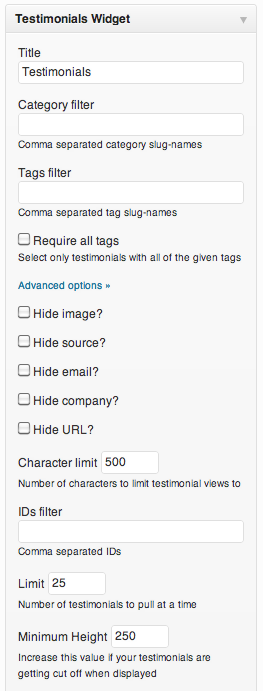
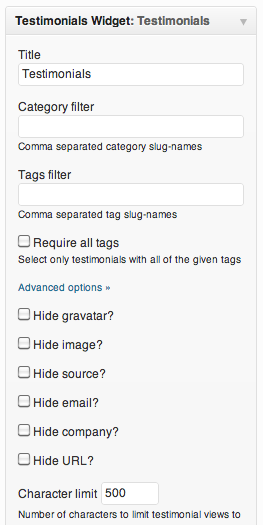
* Add `hide_gravatar` option * Add apply_filters( 'testimonials_widget_data', $testimonial_data ) to process data before display processing * Add right margin to gravatar image * Added empty testimonial data field `testimonial_extra` for customization in testimonials * Allow widget and shortcode sor
git-svn-id: http://plugins.svn.wordpress.org/testimonials-widget/trunk@605160 b8457f37-d9ea-0310-8a92-e5e31aec5664

diff --git a/testimonials-widget.css b/testimonials-widget.css
@@ -9,8 +9,8 @@
 }
 
 .testimonialswidget_paging {
-	font-weight: bold;
 	clear: both;
+	font-weight: bold;
 	height: 1.4em;
 }
 
@@ -18,8 +18,8 @@
 	clear: left;
 	display: none;
 	left: 0;
-	margin: 0;
 	margin-bottom: 1.4em;
+	margin: 0;
 	position: absolute; 
 	top: 0;
 	width: 100%;
@@ -28,6 +28,7 @@
 .testimonialswidget_testimonial .testimonialswidget_image {
 	float: left;
 	margin-bottom: 1.4em;
+	margin-right: .2em;
 }
 
 .widget .testimonialswidget_testimonial .testimonialswidget_image {
@@ -73,6 +74,11 @@
 .testimonialswidget_testimonial .testimonialswidget_url {
 	/* testimonial company and url informaiton */
 }
+
+.testimonialswidget_testimonial .testimonialswidget_extra {
+	/* testimonial source */
+}
+
 
 .testimonialswidget_testimonial_list { 
 	display: block;

diff --git a/lib/testimonials-widget-widget.php b/lib/testimonials-widget-widget.php
@@ -6,11 +6,13 @@ class Testimonials_Widget_Widget extends WP_Widget {
 			'char_limit'		=> 500,
 			'hide_company'		=> '',
 			'hide_email'		=> '',
+			'hide_gravatar'		=> '',
 			'hide_image'		=> '',
 			'hide_source'		=> '',
 			'hide_url'			=> '',
 			'ids'				=> '',
 			'limit'				=> 25,
+			'meta_key'			=> '',
 			'min_height'		=> '250',
 			'order'				=> 'DESC',
 			'orderby'			=> 'ID',
@@ -78,11 +80,13 @@ class Testimonials_Widget_Widget extends WP_Widget {
 		$instance['char_limit']			= ( is_numeric( $new_instance['char_limit'] ) && 0 < $new_instance['char_limit'] ) ? intval( $new_instance['char_limit'] ) : $this->defaults['char_limit'];
 		$instance['hide_company']		= ( 'true' == $new_instance['hide_company'] ) ? 'true' : $this->defaults['hide_company'];
 		$instance['hide_email']			= ( 'true' == $new_instance['hide_email'] ) ? 'true' : $this->defaults['hide_email'];
+		$instance['hide_gravatar']		= ( 'true' == $new_instance['hide_gravatar'] ) ? 'true' : $this->defaults['hide_gravatar'];
 		$instance['hide_image']			= ( 'true' == $new_instance['hide_image'] ) ? 'true' : $this->defaults['hide_image'];
 		$instance['hide_source']		= ( 'true' == $new_instance['hide_source'] ) ? 'true' : $this->defaults['hide_source'];
 		$instance['hide_url']			= ( 'true' == $new_instance['hide_url'] ) ? 'true' : $this->defaults['hide_url'];
 		$instance['ids']				= ( preg_match( '#^\d+(,\d+)?$#', $new_instance['ids'] ) ) ? $new_instance['ids'] : $this->defaults['ids'];
 		$instance['limit']				= ( is_numeric( $new_instance['limit'] ) && 0 < $new_instance['limit'] ) ? intval( $new_instance['limit'] ) : $this->defaults['limit'];;
+		$instance['meta_key']			= ( preg_match( '#^[\w-]+$#', $new_instance['meta_key'] ) ) ? $new_instance['meta_key'] : $this->defaults['meta_key'];
 		$instance['min_height']				= ( is_numeric( $new_instance['min_height'] ) && 0 < $new_instance['min_height'] ) ? intval( $new_instance['min_height'] ) : $this->defaults['min_height'];;
 		$instance['order']				= ( preg_match( '#^desc|asc$#i', $new_instance['order'] ) ) ? $new_instance['order'] : $this->defaults['order'];
 		$instance['orderby']			= ( preg_match( '#^\w+$#', $new_instance['orderby'] ) ) ? $new_instance['orderby'] : $this->defaults['orderby'];
@@ -111,6 +115,8 @@ class Testimonials_Widget_Widget extends WP_Widget {
 
 		echo '<div id="'.$this->get_field_id( 'adv_opts' ).'" style="display:none">';
 
+		echo '<p><input type="checkbox" id="'.$this->get_field_id( 'hide_gravatar' ).'" name="'.$this->get_field_name( 'hide_gravatar' ).'" value="true"'.checked( $instance['hide_gravatar'], 'true', false ).' /> <label for="'.$this->get_field_id( 'hide_gravatar' ).'">'.__( 'Hide gravatar?', 'testimonials-widget' ).'</label></p>';
+
 		echo '<p><input type="checkbox" id="'.$this->get_field_id( 'hide_image' ).'" name="'.$this->get_field_name( 'hide_image' ).'" value="true"'.checked( $instance['hide_image'], 'true', false ).' /> <label for="'.$this->get_field_id( 'hide_image' ).'">'.__( 'Hide image?', 'testimonials-widget' ).'</label></p>';
 
 		echo '<p><input type="checkbox" id="'.$this->get_field_id( 'hide_source' ).'" name="'.$this->get_field_name( 'hide_source' ).'" value="true"'.checked( $instance['hide_source'], 'true', false ).' /> <label for="'.$this->get_field_id( 'hide_source' ).'">'.__( 'Hide source?', 'testimonials-widget' ).'</label></p>';
@@ -130,6 +136,8 @@ class Testimonials_Widget_Widget extends WP_Widget {
 		echo '<p><label for="'.$this->get_field_id( 'min_height' ).'">'.__('Minimum Height', 'testimonials-widget').' </label><input size="4" type="text" id="'.$this->get_field_id( 'min_height' ).'" name="'.$this->get_field_name( 'min_height' ).'" value="'.htmlspecialchars($instance['min_height'], ENT_QUOTES).'" /><br/><span class="setting-description"><small>'.__('Increase this value if your testimonials are getting cut off when displayed', 'testimonials-widget').'</small></span></p>';
 
 		echo '<p><label for="'.$this->get_field_id( 'orderby' ).'">'.__( 'ORDER BY', 'testimonials-widget' ).' </label><input class="widefat" type="text" id="'.$this->get_field_id( 'orderby' ).'" name="'.$this->get_field_name( 'orderby' ).'" value="'.htmlspecialchars($instance['orderby'], ENT_QUOTES).'" /><br/><span class="setting-description"><small>'.__( 'Used when Random order is disabled', 'testimonials-widget' ).'</small></span></p>';
+
+		echo '<p><label for="'.$this->get_field_id( 'meta_key' ).'">'.__( 'Sort by meta key', 'testimonials-widget' ).' </label><input class="widefat" type="text" id="'.$this->get_field_id( 'meta_key' ).'" name="'.$this->get_field_name( 'meta_key' ).'" value="'.htmlspecialchars($instance['meta_key'], ENT_QUOTES).'" /><br/><span class="setting-description"><small>'.__( 'Used when Random order is disabled and sorting by a testimonials meta key is needed', 'testimonials-widget' ).'</small></span></p>';
 
 		echo '<p><label for="'.$this->get_field_id( 'order' ).'">'.__( 'ORDER BY Order', 'testimonials-widget' ).' </label><input class="widefat" type="text" id="'.$this->get_field_id( 'order' ).'" name="'.$this->get_field_name( 'order' ).'" value="'.htmlspecialchars($instance['order'], ENT_QUOTES).'" /><br/><span class="setting-description"><small>'.__( 'DESC or ASC', 'testimonials-widget' ).'</small></span></p>';
 

diff --git a/testimonials-widget.php b/testimonials-widget.php
@@ -3,7 +3,7 @@
 	Plugin Name: Testimonials Widget
 	Plugin URI: http://wordpress.org/extend/plugins/testimonials-widget/
 	Description: Testimonials Widget plugin allows you to display rotating content, portfolio, quotes, showcase, or other text with images on your WordPress blog.
-	Version: 2.1.1
+	Version: 2.1.2
 	Author: Michael Cannon
 	Author URI: http://typo3vagabond.com/about-typo3-vagabond/hire-michael/
 	License: GPLv2 or later
@@ -162,7 +162,7 @@ class Testimonials_Widget {
 		global $user_level, $user_ID;
 
 		// author's and below
-		if( $query->is_admin && $query->is_main_query && $query->is_post_type_archive( self::pt ) && $user_level < 3 )
+		if( $query->is_admin && $query->is_main_query && $query->is_post_type_archive( Testimonials_Widget::pt ) && $user_level < 3 )
 			$query->set( 'post_author', $user_ID );
 
 		return $query;
@@ -372,8 +372,6 @@ EOF;
 </script>
 EOF;
 				self::$scripts[]	= $javascript;
-				// BUGFIX http://wordpress.org/support/topic/plugin-testimonials-widget-warning-call_user_func_array?replies=4#post-3193346
-				// add_action( 'wp_footer', 'Testimonials_Widget::get_testimonials_scripts', 20 );
 				add_action( 'wp_footer', array( &$this, 'get_testimonials_scripts' ), 20 );
 			}
 
@@ -471,6 +469,14 @@ EOF;
 				$cite			= '<cite>' . $cite . '</cite>';
 
 			$html				.= $cite;
+
+			$extra				= $testimonial['testimonial_extra'];
+			if ( ! empty( $extra ) ) {
+				$html			.= '<div class="testimonialswidget_extra';
+				$html			.= $extra;
+				$html			.= '</div>';
+			}
+
 			$html				.= '</div>';
 		}
 
@@ -598,12 +604,15 @@ EOF;
 		$category				= ( preg_match( '#^[\w-]+(,[\w-]+)?$#', $atts['category'] ) ) ? $atts['category'] : false;
 		$ids					= ( preg_match( '#^\d+(,\d+)?$#', $atts['ids'] ) ) ? $atts['ids'] : false;
 		$limit					= ( is_numeric( $atts['limit'] ) && 0 < $atts['limit'] ) ? intval( $atts['limit'] ) : 25;
+		$meta_key				= ( preg_match( '#^[\w-]+$#', $atts['meta_key'] ) ) ? $atts['meta_key'] : false;
 		$order					= ( preg_match( '#^desc|asc$#i', $atts['order'] ) ) ? $atts['order'] : 'DESC';
 		$orderby				= ( preg_match( '#^\w+$#', $atts['orderby'] ) ) ? $atts['orderby'] : 'ID';
 		$paging					= ( 'true' == $atts['paging'] ) ? true : false;
 		$random					= ( 'true' == $atts['random'] ) ? true : false;
 		$tags					= ( preg_match( '#^[\w-]+(,[\w-]+)?$#', $atts['tags'] ) ) ? $atts['tags'] : false;
 		$tags_all				= ( 'true' == $atts['tags_all'] ) ? true : false;
+
+		$hide_gravatar			= ( 'true' == $atts['hide_gravatar'] ) ? true : false;
 
 		if ( $random ) {
 			$orderby			= 'rand';
@@ -613,12 +622,17 @@ EOF;
 		$args					= array(
 			'orderby'			=> $orderby,
 			'post_status'		=> 'publish',
-			'post_type'			=> self::pt,
+			'post_type'			=> Testimonials_Widget::pt,
 			'posts_per_page'	=> $limit,
 		);
 
 		if ( $paging && ! empty( $_REQUEST[ self::page_key ] ) ) {
 			$args['paged']		= intval( $_REQUEST[ self::page_key ] );
+		}
+
+		if ( ! $random && $meta_key ) {
+			$args['meta_key']	= $meta_key;
+			$args['orderby']	= 'meta_value';
 		}
 
 		if ( $order ) {
@@ -660,7 +674,7 @@ EOF;
 			if ( has_post_thumbnail( $post_id ) ) {
 				$image_size		= apply_filters( 'testimonials_widget_image_size', 'thumbnail' );
 				$image			= get_the_post_thumbnail( $post_id, $image_size );
-			} elseif ( is_email( $email ) ) {
+			} elseif ( ! $hide_gravatar && is_email( $email ) ) {
 				$gravatar_size	= apply_filters( 'testimonials_widget_gravatar_size', 96 );
 				$image			= get_avatar( $email, $gravatar_size );
 			} else {
@@ -668,14 +682,18 @@ EOF;
 			}
 
 			$testimonial_data[]	= array(
+				'post_id'				=> $post_id,
 				'testimonial_source'	=> $row->post_title,
 				'testimonial_company'	=> get_post_meta( $post_id, 'testimonials-widget-company', true ),
 				'testimonial_content'	=> $row->post_content,
 				'testimonial_email'		=> $email,
 				'testimonial_image'		=> $image,
 				'testimonial_url'		=> get_post_meta( $post_id, 'testimonials-widget-url', true ),
+				'testimonial_extra'		=> '',
 			);
 		}
+
+		$testimonial_data		= apply_filters( 'testimonials_widget_data', $testimonial_data );
 
 		return $testimonial_data;
 	}
